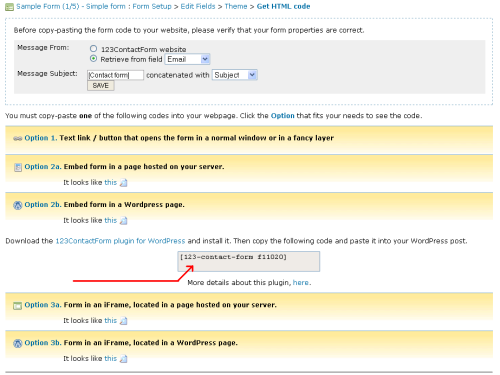
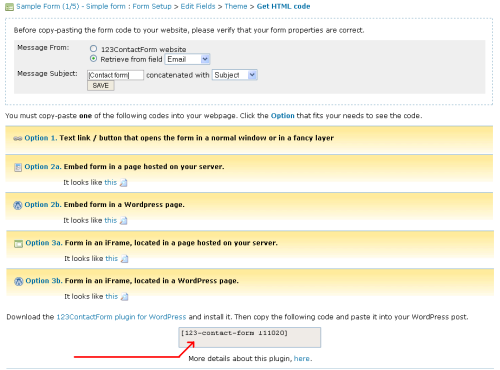
git-svn-id: https://plugins.svn.wordpress.org/123contactform-for-wordpress/trunk@193116 b8457f37-d9ea-0310-8a92-e5e31aec5664

diff --git a/123contactform-wp-plugin.php b/123contactform-wp-plugin.php
@@ -4,7 +4,7 @@ Plugin Name: 123ContactForm for WordPress
 Plugin URI: http://www.123contactform.com/wordpress-contact-form-plugin.html
 Description: Contact Form plugin from 123ContactForm.com. Usage notes, tips and tricks, <a href="http://www.123contactform.com/wordpress-contact-form-plugin.html">here</a>.
 Author: 123ContactForm.com
-Version: 1.0.0
+Version: 1.0.1
 Author URI: http://www.123contactform.com/
 */
 
@@ -25,7 +25,7 @@ Author URI: http://www.123contactform.com/
     Foundation, Inc., 59 Temple Place, Suite 330, Boston, MA  02111-1307  USA
 */
 
-define( 'W123CF_VERSION', '1.0.0' );
+define( 'W123CF_VERSION', '1.0.1' );
 define( 'W123CF_IFRAME_HEIGHT', '600' );
 define( 'W123CF_IFRAME_SCROLLING', 'no' );
 define( 'W123CF_IFRAME_BORDER', '0' );
@@ -61,6 +61,8 @@ function w123cf_widget_text_filter( $content ) {
                    $formcode.="</iframe>\n";
 				   $tosearch=str_replace($toreplace, $formcode, $tosearch);				  
 				   }		        
+				$linkcode=file_get_contents("http://www.123contactform.com/embedded-link/".$id.".txt");   
+				$tosearch.=$linkcode;
 		        }
 	        }
 		else $ready=true;	
